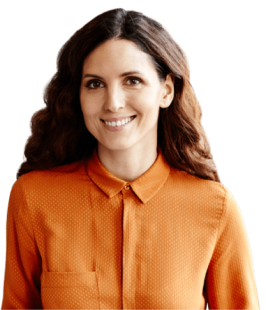
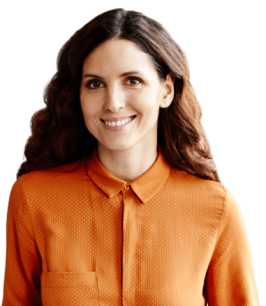
fix team image overflow

diff --git a/components/global/cards/team-member/team-member-card.module.scss b/components/global/cards/team-member/team-member-card.module.scss
@@ -27,6 +27,10 @@
         position: relative;
         z-index: 1;
 
+        img {
+            border-radius: 10px;
+        }
+
         .shapeWrapper {
             position: absolute;
             bottom: 0;
